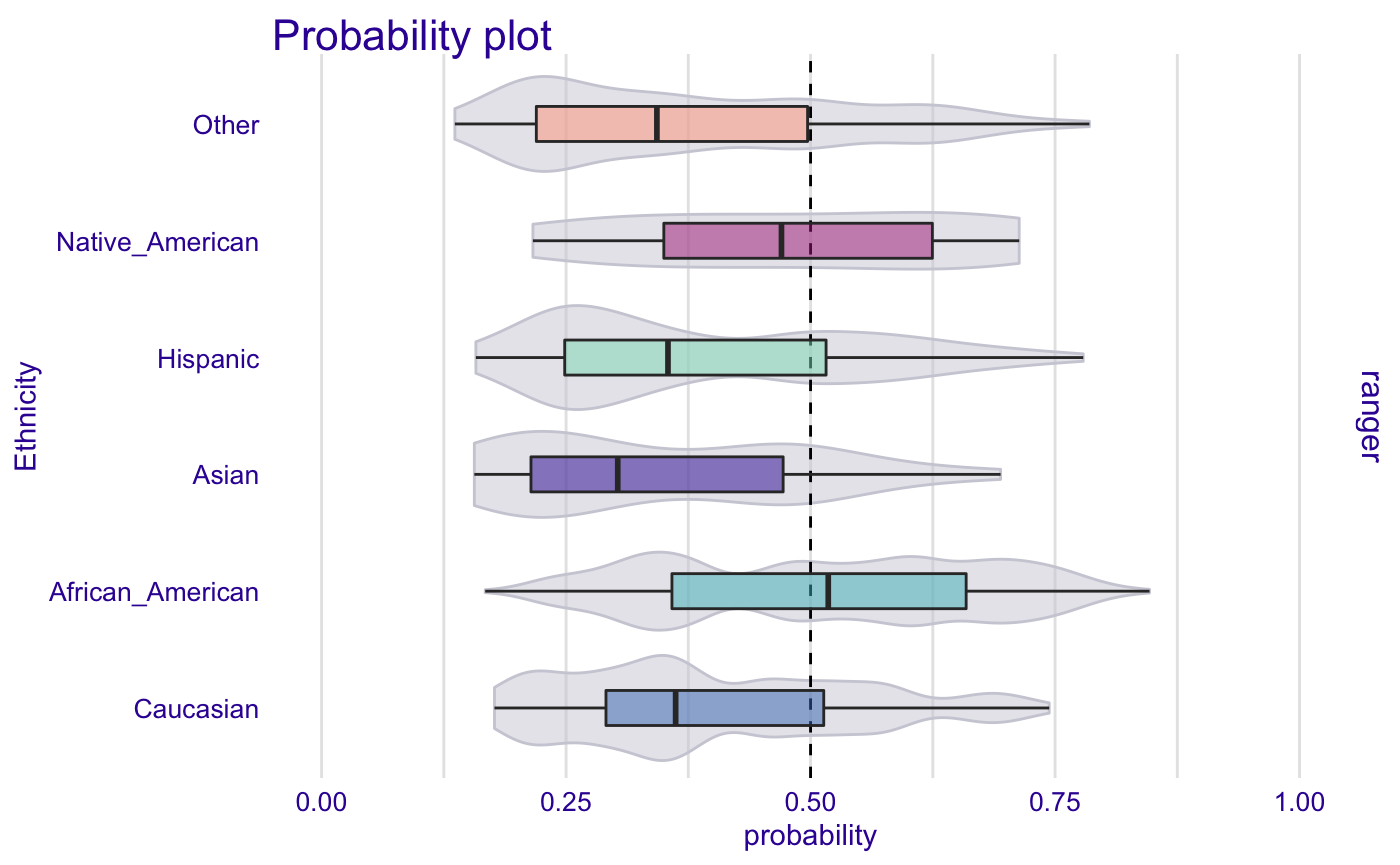
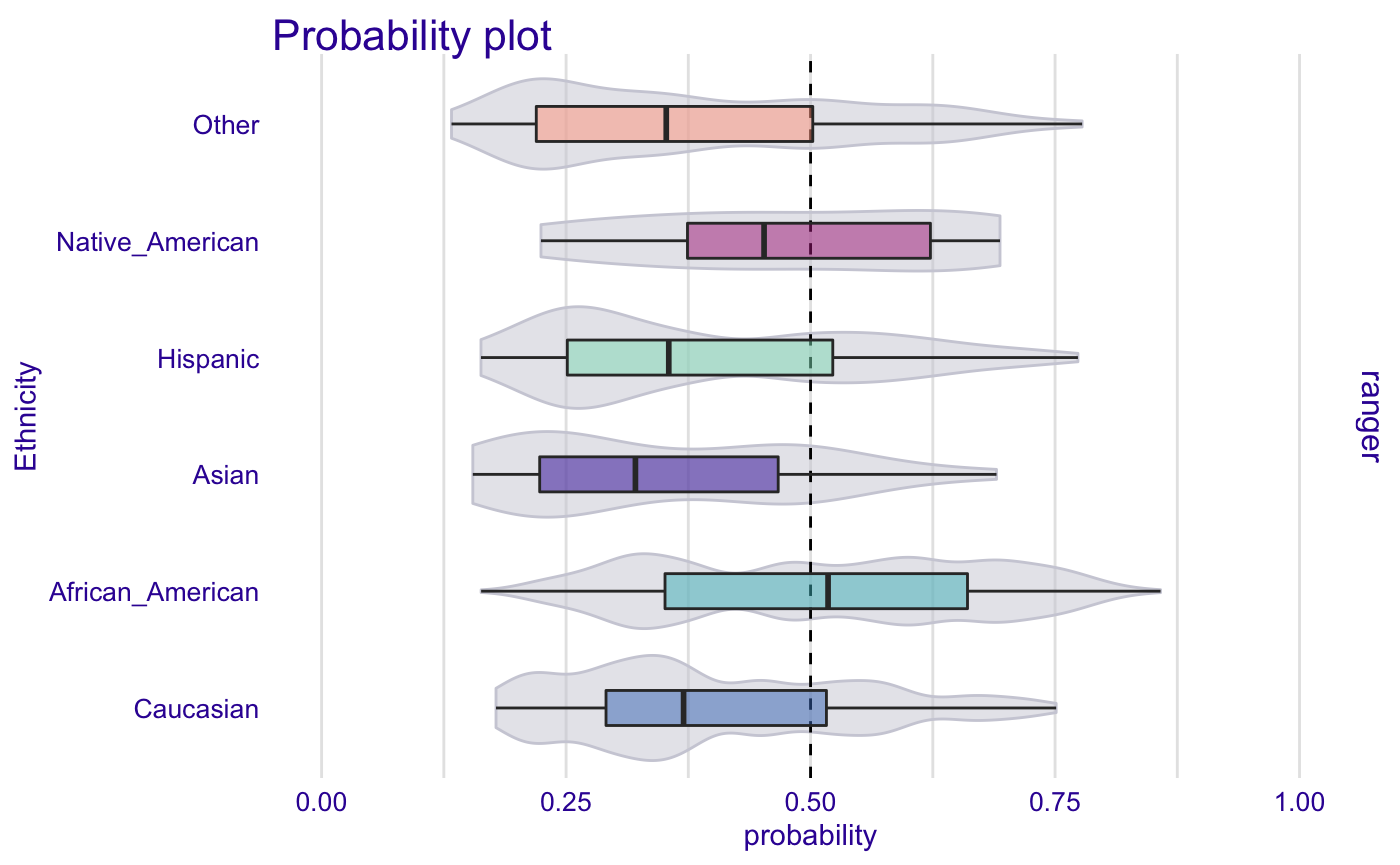
Built site for FairModels: 0.1.0@a2cadc4

diff --git a/articles/tutorial.html b/articles/tutorial.html
@@ -139,9 +139,9 @@
 #&gt;   -&gt; target variable   :  6172  values 
 #&gt;   -&gt; model_info        :  package ranger , ver. 0.12.1 , task classification ( [33m default [39m ) 
 #&gt;   -&gt; predict function  :  yhat.ranger  will be used ( [33m default [39m )
-#&gt;   -&gt; predicted values  :  numerical, min =  0.1362942 , mean =  0.4549849 , max =  0.8465945  
+#&gt;   -&gt; predicted values  :  numerical, min =  0.132853 , mean =  0.4550222 , max =  0.8578773  
 #&gt;   -&gt; residual function :  difference between y and yhat ( [33m default [39m )
-#&gt;   -&gt; residuals         :  numerical, min =  -0.7863888 , mean =  0.0001350116 , max =  0.8422328  
+#&gt;   -&gt; residuals         :  numerical, min =  -0.7960275 , mean =  9.772776e-05 , max =  0.8408401  
 #&gt;  [32m A new explainer has been created! [39m</code></pre>
 <p>Than we create <code>fairness_object</code> with <code><a href="../reference/create_fairness_object.html">create_fairness_object()</a></code></p>
 <div class="sourceCode" id="cb5"><html><body><pre class="r"><span class="no">fobject</span> <span class="kw">&lt;-</span> <span class="fu"><a href="../reference/create_fairness_object.html">create_fairness_object</a></span>(<span class="no">rf_explainer</span>,

diff --git a/index.html b/index.html
@@ -85,7 +85,7 @@
   <div class="contents col-md-9">
 
 
-<p><a href="https://github.com/jakwisn/FairModels/actions"><img src="https://github.com/jakwisn/FairModels/workflows/R-CMD-check/badge.svg" alt="R build status"></a> <!-- badges: end --></p>
+<p><a href="https://github.com/ModelOriented/FairModels/actions"><img src="https://github.com/ModelOriented/FairModels/workflows/R-CMD-check/badge.svg" alt="R build status"></a> <!-- badges: end --></p>
 <div id="fairmodels" class="section level1">
 <div class="page-header"><h1 class="hasAnchor">
 <a href="#fairmodels" class="anchor"></a>FairModels</h1></div>
@@ -197,7 +197,7 @@ plot_two_models(fobject, fairness_metric = "FNR")</a></code></pre>
   <div class="dev-status">
 <h2>Dev status</h2>
 <ul class="list-unstyled">
-<li><a href="https://codecov.io/gh/jakwisn/FairModels?branch=master"><img src="https://codecov.io/gh/jakwisn/FairModels/branch/master/graph/badge.svg" alt="Codecov test coverage"></a></li>
+<li><a href="https://codecov.io/gh/ModelOriented/FairModels?branch=master"><img src="https://codecov.io/gh/ModelOriented/FairModels/branch/master/graph/badge.svg" alt="Codecov test coverage"></a></li>
 </ul>
 </div>
 </div>
